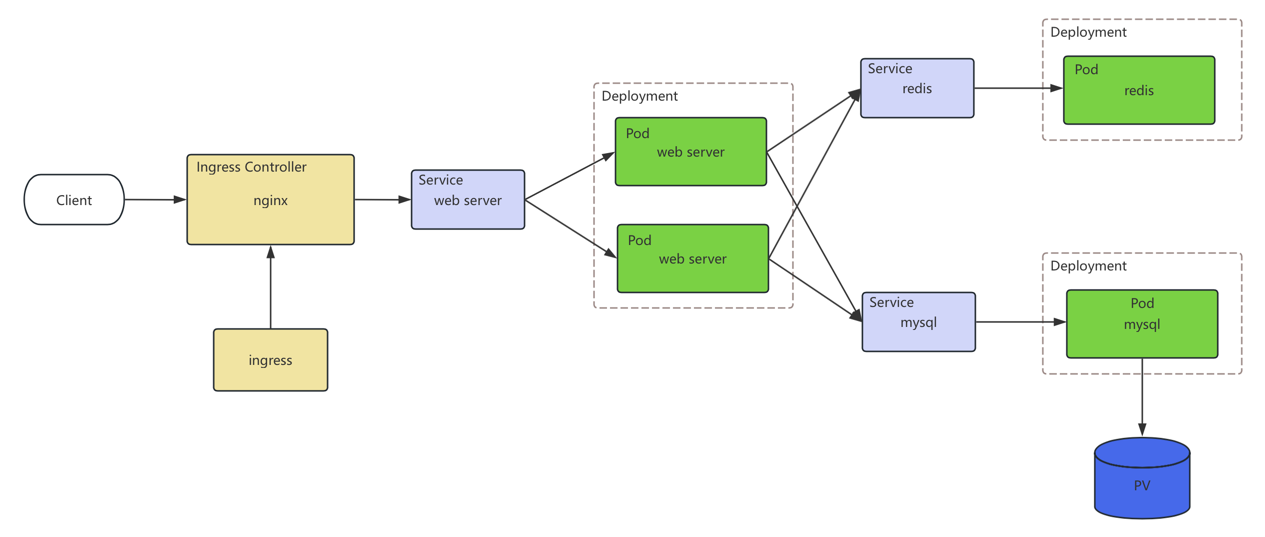
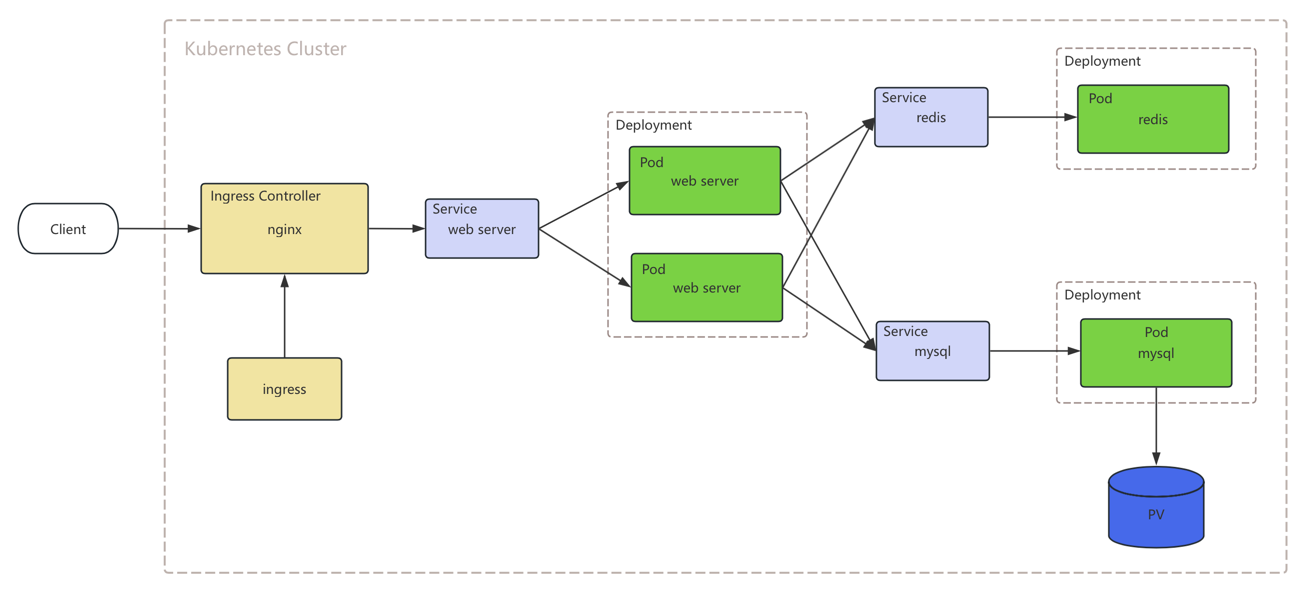
[OPT]部署架构图

Changed region(s): [[0.0, 0.0298, 0.9866, 0.7151], [0.1233, 0.7747, 0.9866, 0.9832], [0.1542, 0.5959, 0.2775, 0.7449]]

diff --git a/README.md b/README.md
@@ -1,6 +1,6 @@
 # Kubernetes 部署实践 demo
 ## 部署架构
-![img.png](docs/images/img.png)
+![img_1.png](docs/images/img.png)
 
 ## 环境准备
 - Golang v1.22.1+
